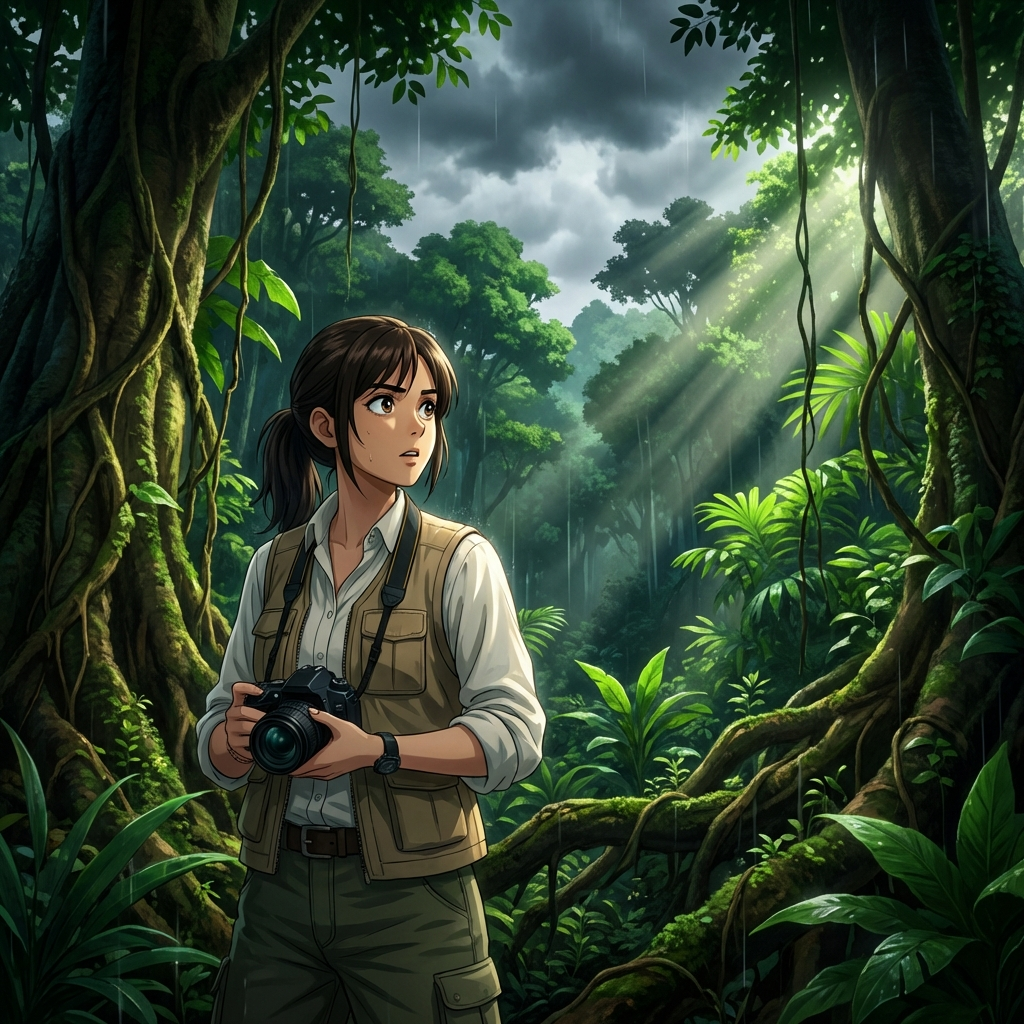
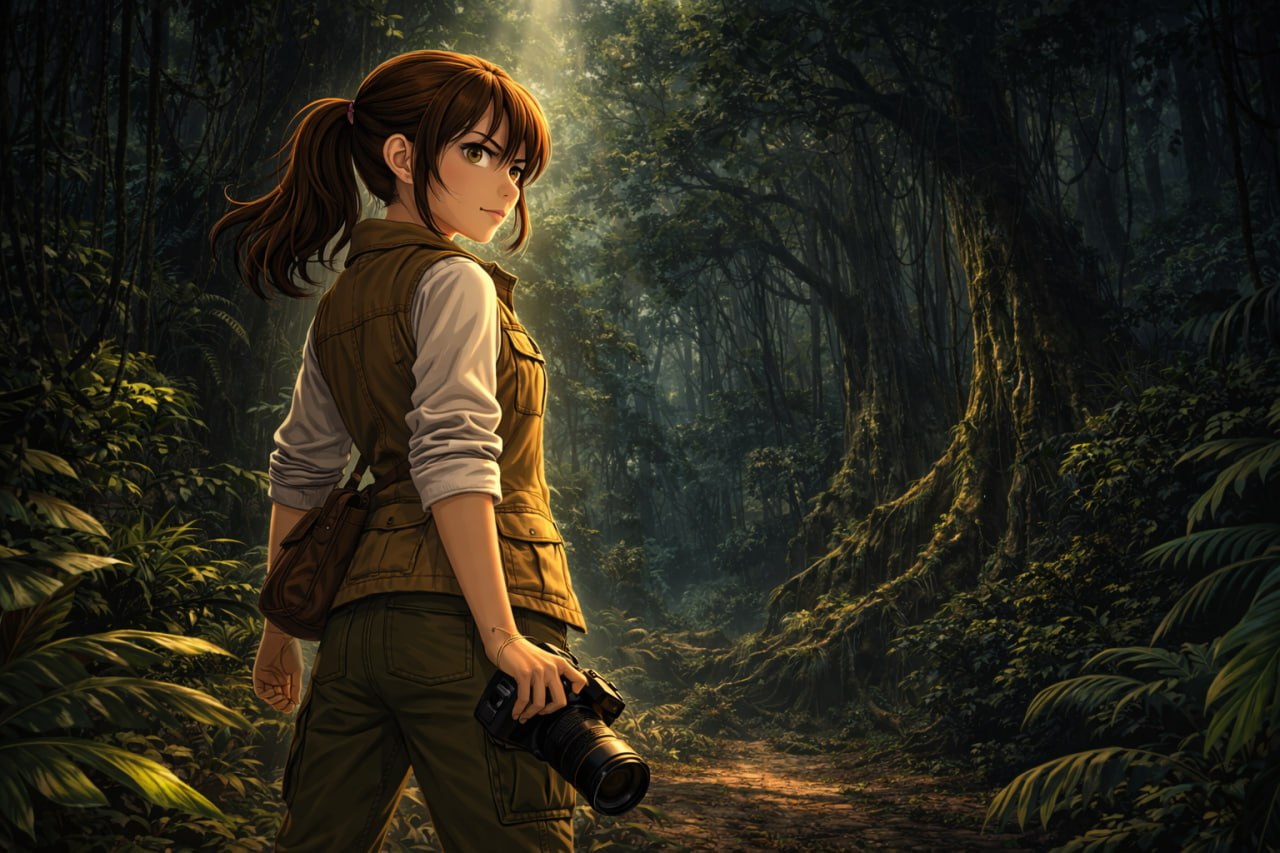
Глава 01: все 8 render.png обновлены в едином стиле

diff --git a/Главы/Глава 01/Страница 05/сценарий.md b/Главы/Глава 01/Страница 05/сценарий.md
@@ -25,14 +25,15 @@
 
 ```
 modern anime style, studio ghibli inspired but with 3D volume, vibrant and lively colors, volumetric lighting, cinematic atmosphere, high depth of field, 8k, masterpiece, highly detailed background, not flat, NO TEXT NO WORDS,
+IMPORTANT: anime-style character with clean cel-shaded face, smooth anime skin, large expressive anime eyes — NOT photorealistic, NOT 3D rendered face,
 
-Joana, young woman photographer, early 20s, medium-length chestnut brown hair tied back in a low ponytail, warm brown eyes (important: brown not blue), expression of pure terror and desperation, eyes shut tight, slightly tanned skin, wearing a beige multi-pocket safari vest over a cream-white long-sleeve shirt with rolled-up sleeves, olive green cargo pants, brown hiking boots,
+Joana, young woman, early 20s, anime face, medium-length chestnut brown hair tied back in a low ponytail, large warm brown anime eyes shut tight in terror, slightly tanned smooth skin, wearing a beige multi-pocket safari vest over a cream-white long-sleeve shirt with rolled-up sleeves, olive green cargo pants, brown hiking boots,
 
-standing frozen in place, both arms raised instinctively above her head in a desperate shielding gesture, body slightly crouched,
+standing frozen, both arms raised above her head in a desperate shielding gesture, body crouched low, expression of pure terror,
 
-a massive ancient tree trunk filling the upper two-thirds of the frame, falling directly downward toward Joana and the viewer, the bark texture enormous and detailed, strong motion blur on the falling trunk suggesting terrifying speed and weight,
+a massive ancient tree trunk filling the upper half of the frame, falling directly downward toward her, enormous bark texture detail, strong motion blur suggesting crushing speed and weight,
 
-jungle chaos in the background: storm, heavy rain, lightning flash illuminating the scene dramatically, flying debris of leaves and wood splinters, other team members visible as panicking silhouettes fleeing in the background,
+background: dark stormy jungle only — heavy rain, lightning flash, flying leaves and broken branches, NO people in background, just chaos of the storm and dark jungle,
 
-extreme low angle looking up, sense of inevitable doom, dark stormy lighting with a single lightning flash as the main dramatic light source
+extreme low angle looking up at the falling tree, dramatic lightning as the only light source, dark terrifying atmosphere, sense of doom
 ```
